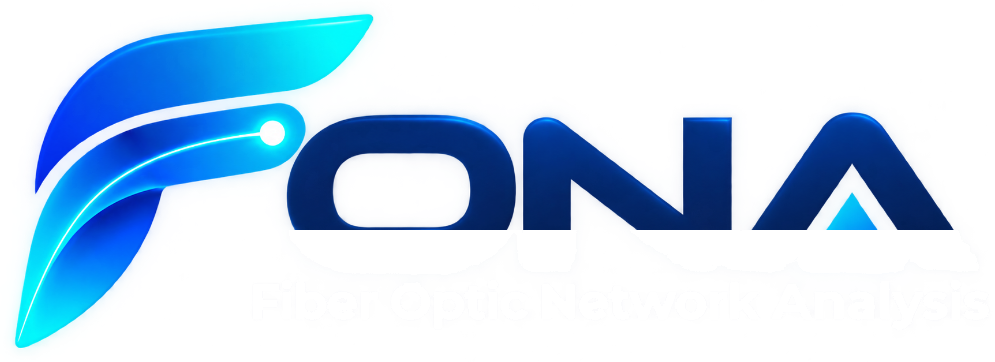
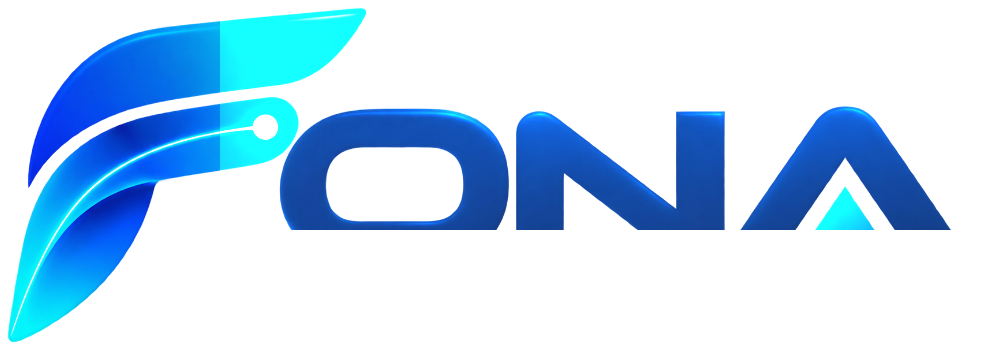
fix(brand): clean alpha haze and remove bounding box artifact on dark mode

diff --git a/resources/js/components/FonaBrandLogo.jsx b/resources/js/components/FonaBrandLogo.jsx
@@ -3,18 +3,18 @@ import React from 'react';
 export default function FonaBrandLogo({ className = "w-56 sm:w-64 h-auto", showTagline = false }) {
   return (
     <div className="flex flex-col items-center justify-center select-none">
-      {/* Light Mode Logo (Deep Navy Text) */}
+      {/* Light Mode Logo (Original 3D Sapphire Blue) */}
       <img
         src="/images/brand/fona_logo_light.png"
         alt="FONA — Fiber Optic Network Analysis"
         className={`dark:hidden object-contain ${className}`}
       />
 
-      {/* Dark Mode Logo (Crisp White Text + Glowing Cyan Delta) */}
+      {/* Dark Mode Logo (Enhanced 3D Glossy Sapphire + White Tagline on Pitch Black) */}
       <img
         src="/images/brand/fona_logo_dark.png"
         alt="FONA — Fiber Optic Network Analysis"
-        className={`hidden dark:block object-contain filter drop-shadow-[0_0_16px_rgba(6,182,212,0.3)] ${className}`}
+        className={`hidden dark:block object-contain ${className}`}
       />
     </div>
   );
